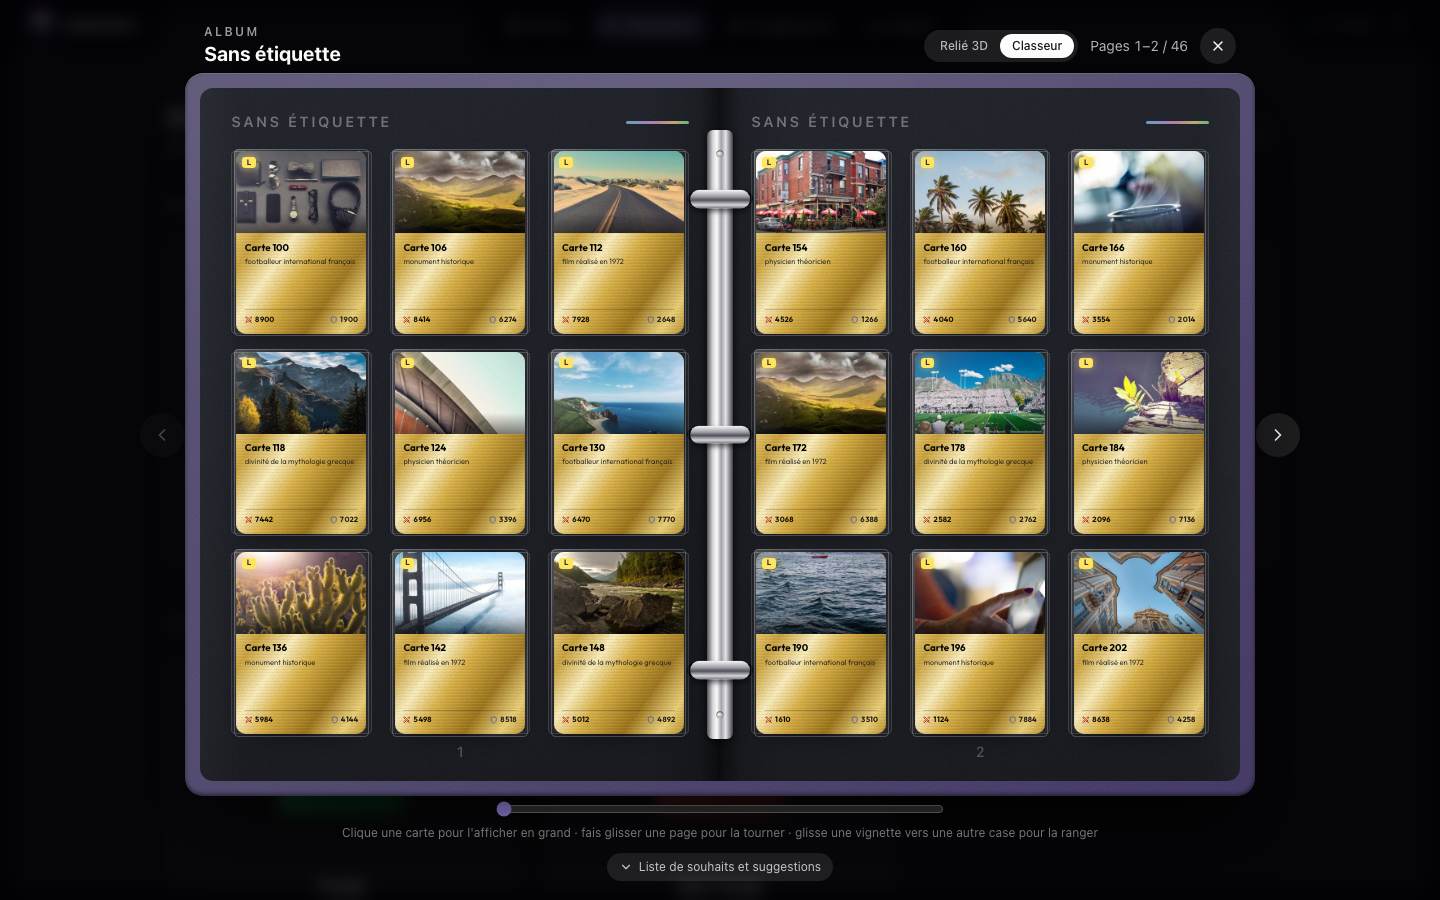
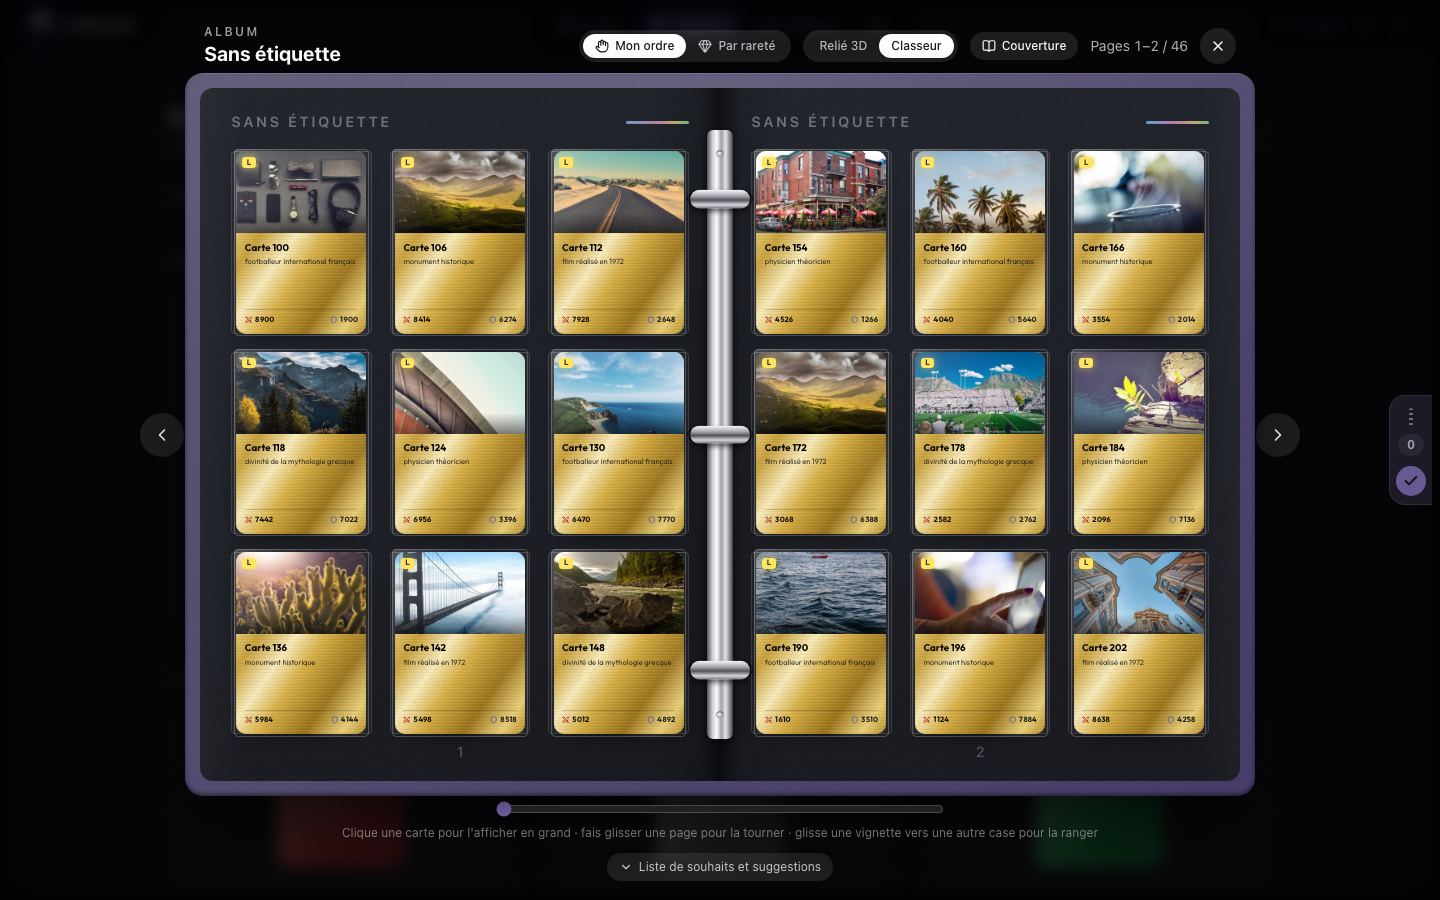
README : nouvelles captures et fonctionnalités, confidentialité à jour

diff --git a/README.md b/README.md
@@ -12,7 +12,7 @@
 
 > Extension Chrome **non officielle** pour [WikiMasters](https://www.wiki-masters.com), sans lien avec l'équipe du jeu.
 
-Range ta collection de cartes Wikipédia : tri **Trade / Not Trade** en quelques clics, **étiquettes** (celles du site), **albums** à feuilleter façon Panini, **liste de souhaits** avec suggestions des meilleures cartes à chercher, et **export** CSV / Google Sheets.
+Range ta collection de cartes Wikipédia : tri **Trade / Not Trade** en quelques clics, **étiquettes** (celles du site), **albums** à feuilleter façon Panini, **albums à objectif** (les rois de France, le top 50 des…) avec les cartes qu'il te reste à trouver, suggestions des meilleures cartes à chercher, et **export** CSV / Google Sheets.
 
 <p align="center">
   <img src="docs/images/review-light.png" alt="Vue Revue en mode clair" width="49%">
@@ -21,17 +21,23 @@ Range ta collection de cartes Wikipédia : tri **Trade / Not Trade** en quelques
 
 ## Fonctionnalités
 
-- **Revue** : toutes tes cartes, filtres (statut, rareté, étiquettes, doublons, nouvelles), sélection multiple, raccourcis clavier (`T` Trade, `N` Not Trade, `E` étiqueter, `A` tout, `/` recherche, `Entrée` afficher en grand).
-- **Cartes au style WikiMasters** : format, couleurs de rareté et statistiques du jeu, papier légèrement grainé ; reflet holographique au survol, plus intense selon la rareté. Les **Ultra rares** ont un irisé qui bouge en permanence, les **Légendaires** une vraie feuille d'or avec un éclat qui la balaie.
-- **Carte en grand** : clic sur une carte (double-clic dans la Revue) pour l'afficher en grand avec ses infos, ← → pour parcourir.
+- **Visite guidée** : à la première ouverture, une présentation pas à pas des quatre pages met en lumière chaque fonction. Passable, et relançable depuis **Paramètres › Apparence › Aide**.
+- **Cartes** : toutes tes cartes, filtres compacts (statut, rareté, étiquettes séparées Collection / Rangement, doublons, nouvelles), sélection multiple, raccourcis clavier (`T` Trade, `N` Not Trade, `E` étiqueter, `A` tout, `/` recherche, `Entrée` afficher en grand).
+- **Boîte d'envoi** : rien ne part sur le site tout de suite. Statuts, étiquettes et albums s'accumulent dans un volet à droite (poignée avec le nombre de modifications) et partent d'un clic ; un tracé aux couleurs de la palette fait le tour du cadre pendant l'envoi.
+- **Cartes au style WikiMasters** : format, couleurs de rareté et statistiques du jeu, neuf habillages au choix (imprimé, premium foil, matière), reflet holographique au survol, plus intense selon la rareté.
+- **Carte en grand** : la carte, ses infos et, à côté, le début de son article Wikipédia (dépliable, repliable) ; ← → pour parcourir.
 - **Trade / Not Trade** : deux étiquettes natives du site, option « tout Trade par défaut », pastilles sur les cartes de WikiMasters.
-- **Étiquettes** : en dossiers animés ou en liste, couleurs, renommage ; tout est visible sur le site.
-- **Albums** : chaque étiquette s'ouvre en album à feuilleter, **relié** (toile, tranches de pages, papier) ou **classeur** (pochettes plastique, anneaux). On tourne les pages en les faisant glisser et on range les cartes case par case.
-- **Liste de souhaits et suggestions** : sous chaque album, Collection+ devine le thème (métier, pays, genre…) et propose les cartes les plus connues de ce thème que tu n'as pas encore ; un ♡ les garde dans la liste de souhaits de l'album.
-- **Suggestions d'étiquettes** : Collection+ reconnaît ce que représente chaque carte (personnalité, film, ville, espèce, footballeur…) et propose des étiquettes en un clic. Règles optionnelles pour les futures cartes, **à valider** ou **automatiques**.
+- **Étiquettes et albums** : un seul bouton **Nouveau** pour une étiquette / album, un album à objectif ou une étiquette de rangement. Chaque étiquette s'ouvre en album à feuilleter, **relié** ou **classeur** : rangement à la main ou vue par rareté (sans perdre ton ordre), croix pour retirer une carte (elle passe dans « Écartées »), description de couverture rédigée par l'IA.
+- **Albums à objectif** : décris ce que tu veux réunir (« les rois de France », « les empereurs en Europe après 1600 », « le top 50 des personnalités féminines françaises avant 1900 »). Collection+ cherche une page « Liste de… » de Wikipédia, une liste Wikidata notée de 0 à 1 selon les dates et le lieu, ou traduit ta phrase en règles modifiables (avec une clé Gemini gratuite, facultative). Tu verrouilles la liste, l'album a ses cases numérotées : cartes collées, cartes possédées à coller d'un clic, cartes à trouver. Survole une carte pour voir l'article.
+- **Enhance** : cartes à ranger dans tes albums, nouveaux albums possibles d'après Wikidata, fiches d'album rédigées par l'IA intégrée de Chrome.
+- **Liste de souhaits et suggestions** : sous chaque album, les cartes les plus connues de son thème que tu n'as pas encore.
 - **Export** : CSV, copie pour tableur, ou classeur Google Sheets mis en forme.
 - **Thèmes** : mode clair, sombre ou auto, et 10 palettes qui recolorent l'interface, le bouton sur le site et l'icône de l'extension.
 - **Cache local** : la collection s'affiche instantanément, seuls les changements sont rechargés.
+
+<p align="center">
+  <img src="docs/images/onboarding.png" alt="Visite guidée à la première ouverture" width="100%">
+</p>
 
 ## Cartes et raretés
 
@@ -65,10 +71,10 @@ Sous chaque album, la liste de souhaits et les **meilleures cartes à chercher**
 
 ## Palettes
 
-Dix accords de couleurs, à choisir dans **Export → Réglages → Palette**. Chacun existe en clair et en sombre.
+Dix accords de couleurs, à choisir dans **Paramètres › Apparence › Palette**. Chacun existe en clair et en sombre.
 
 <p align="center">
-  <img src="docs/images/settings.png" alt="Export et réglages, choix de la palette" width="70%">
+  <img src="docs/images/settings.png" alt="Paramètres, choix de la palette" width="70%">
 </p>
 
 <p align="center">
@@ -107,7 +113,7 @@ Tes réglages, règles et données restent en place (l'identifiant de l'extensio
 
 ## Confidentialité
 
-Aucun serveur, aucune collecte : voir [PRIVACY.md](PRIVACY.md). Les suggestions interrogent Wikidata et Wikipédia (API publiques, sans compte).
+Aucun serveur, aucune collecte : voir [PRIVACY.md](PRIVACY.md). Les suggestions et les albums à objectif interrogent Wikidata et Wikipédia (API publiques, sans compte). Si tu ajoutes une clé Gemini (facultative), seule la phrase de ta demande est envoyée à Google pour être comprise ; la clé reste sur ton ordinateur.
 
 ---
 
@@ -115,7 +121,7 @@ Aucun serveur, aucune collecte : voir [PRIVACY.md](PRIVACY.md). Les suggestions 
 
 ```bash
 pnpm install
-pnpm dev            # Chrome avec l'extension en rechargement à chaud
+pnpm dev            # build de développement (.output/chrome-mv3-dev) en rechargement à chaud
 pnpm build          # build de production → .output/chrome-mv3
 pnpm preview:mock   # aperçu dans un navigateur, avec données simulées
 pnpm typecheck

diff --git a/PRIVACY.md b/PRIVACY.md
@@ -3,10 +3,11 @@
 Collection+ n'a **aucun serveur** et ne collecte aucune donnée.
 
 - **Ta session WikiMasters** est lue dans le cookie du site, uniquement pour appeler l'API de WikiMasters en ton nom (lire ta collection, poser des étiquettes). Elle n'est jamais stockée ni envoyée ailleurs.
-- **Stockage local** (`chrome.storage.local`, sur ton ordinateur uniquement) : cache de ta collection, données Wikidata, règles, réglages, rangement des albums et listes de souhaits.
+- **Stockage local** (`chrome.storage.local`, sur ton ordinateur uniquement) : cache de ta collection, données Wikidata, introductions Wikipédia, règles, réglages (dont la clé Gemini si tu en ajoutes une), rangement des albums, listes des albums à objectif et listes de souhaits.
 - **Services contactés** :
   - `www.wiki-masters.com` et son backend Supabase : ta collection et tes étiquettes ;
-  - `www.wikidata.org` : informations publiques sur les articles et recherche des suggestions d'album (seuls des titres d'articles et des critères de thème sont envoyés) ;
-  - `fr.wikipedia.org` et `upload.wikimedia.org` : description courte et vignette des cartes suggérées ;
+  - `www.wikidata.org` et `query.wikidata.org` : informations publiques sur les articles, suggestions d'album et listes des albums à objectif (seuls des titres d'articles, des critères de thème et le texte de ta demande sont envoyés) ;
+  - `fr.wikipedia.org` et `upload.wikimedia.org` : description courte, introduction et vignette des articles, recherche et pages de liste pour les albums à objectif ;
+  - `generativelanguage.googleapis.com` (Gemini) : uniquement si tu enregistres une clé Gemini, pour comprendre la phrase d'une demande d'album à objectif (seule cette phrase est envoyée) ; la clé reste dans le stockage local ;
   - `api.github.com` : vérifier s'il existe une nouvelle version ;
   - `sheets.googleapis.com` : uniquement si tu utilises l'export Google Sheets (accès limité aux fichiers créés par l'extension).
